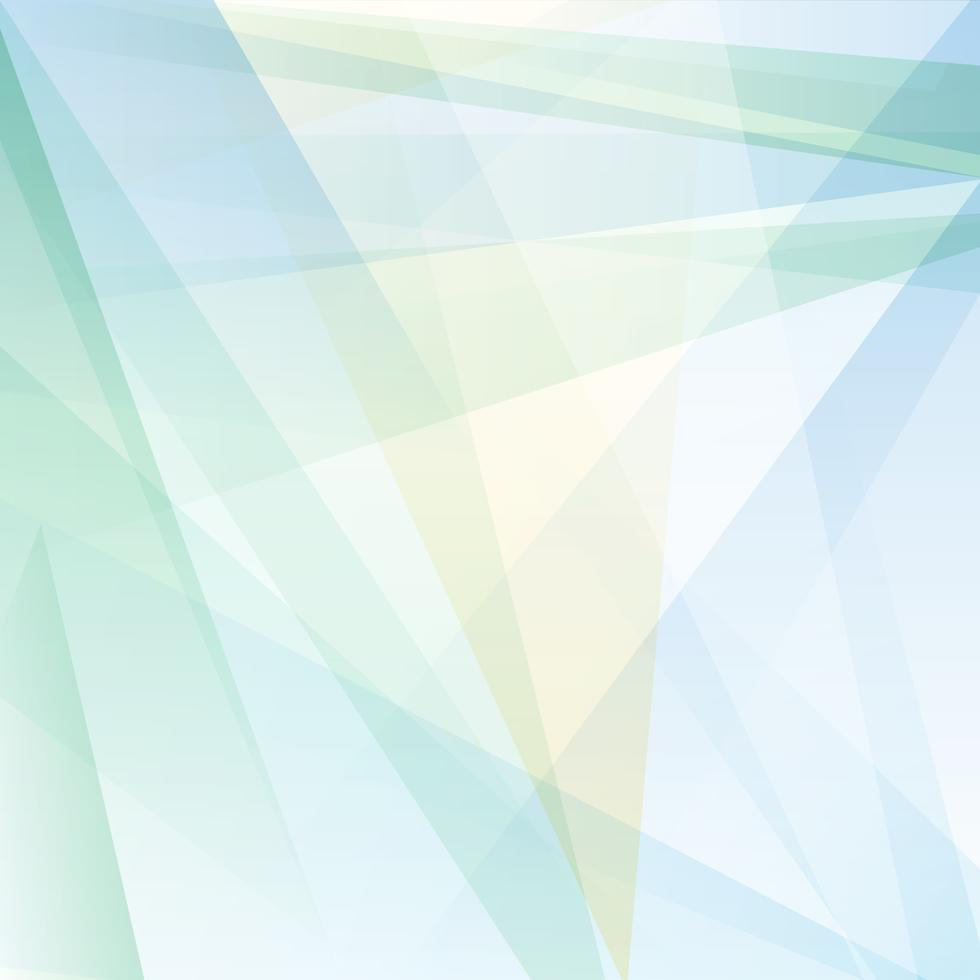
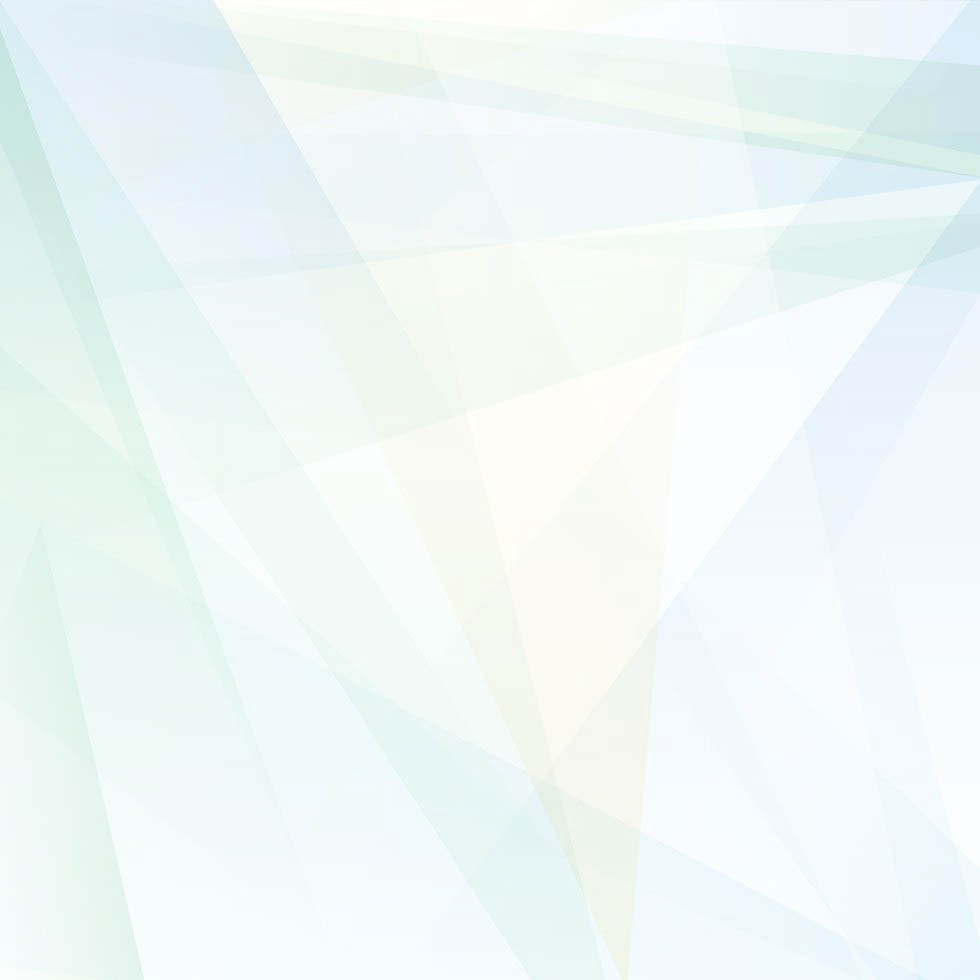
updated css and index file

diff --git a/assets/css/style.css b/assets/css/style.css
@@ -1,10 +1,16 @@
-
 html {
     scroll-behavior: smooth;
 }
 
+body {
+  background-image: url("../images/bg.jpg");
+  background-repeat: repeat;
+  background-size: cover;
 
-/* header */
+}
+
+
+/* header section*/
 header .logo-div{
     display: block;
     position: relative;
@@ -112,21 +118,11 @@ header nav ul li {
 
 header nav a {
     color: #ffffff;
-
 }
 
-
-/* alpha background */
-.alpha-bg {
-    opacity: 0.5;
-    position: fixed;
-    left: 0;
-    top: 0;
-    width: 100%;
-    height: auto;
-    z-index: -1;
-  }
-
+header nav a:hover {
+  text-decoration: none;
+}
 
 
 /*main section*/
@@ -145,7 +141,7 @@ main {
     width: 100%;
     max-width: 1500px;
     border-radius: 10px;
-    background-color: rgb(255, 255, 255, 0.75);
+    background-color: rgb(255, 255, 255, 0.70);
     font-family:  "Arial";
     font-size: 20px;
     margin-left:auto;

diff --git a/index.html b/index.html
@@ -198,9 +198,7 @@
     <footer class="footer">
         <p>&copy; 2023 Work Portfolio</p>
     </footer>
-    
-    <!-- alpha background image -->
-    <img class="alpha-bg" src="./assets/images/bg.jpg" alt="alpha background" />
+
 </body>
 
 </html>
